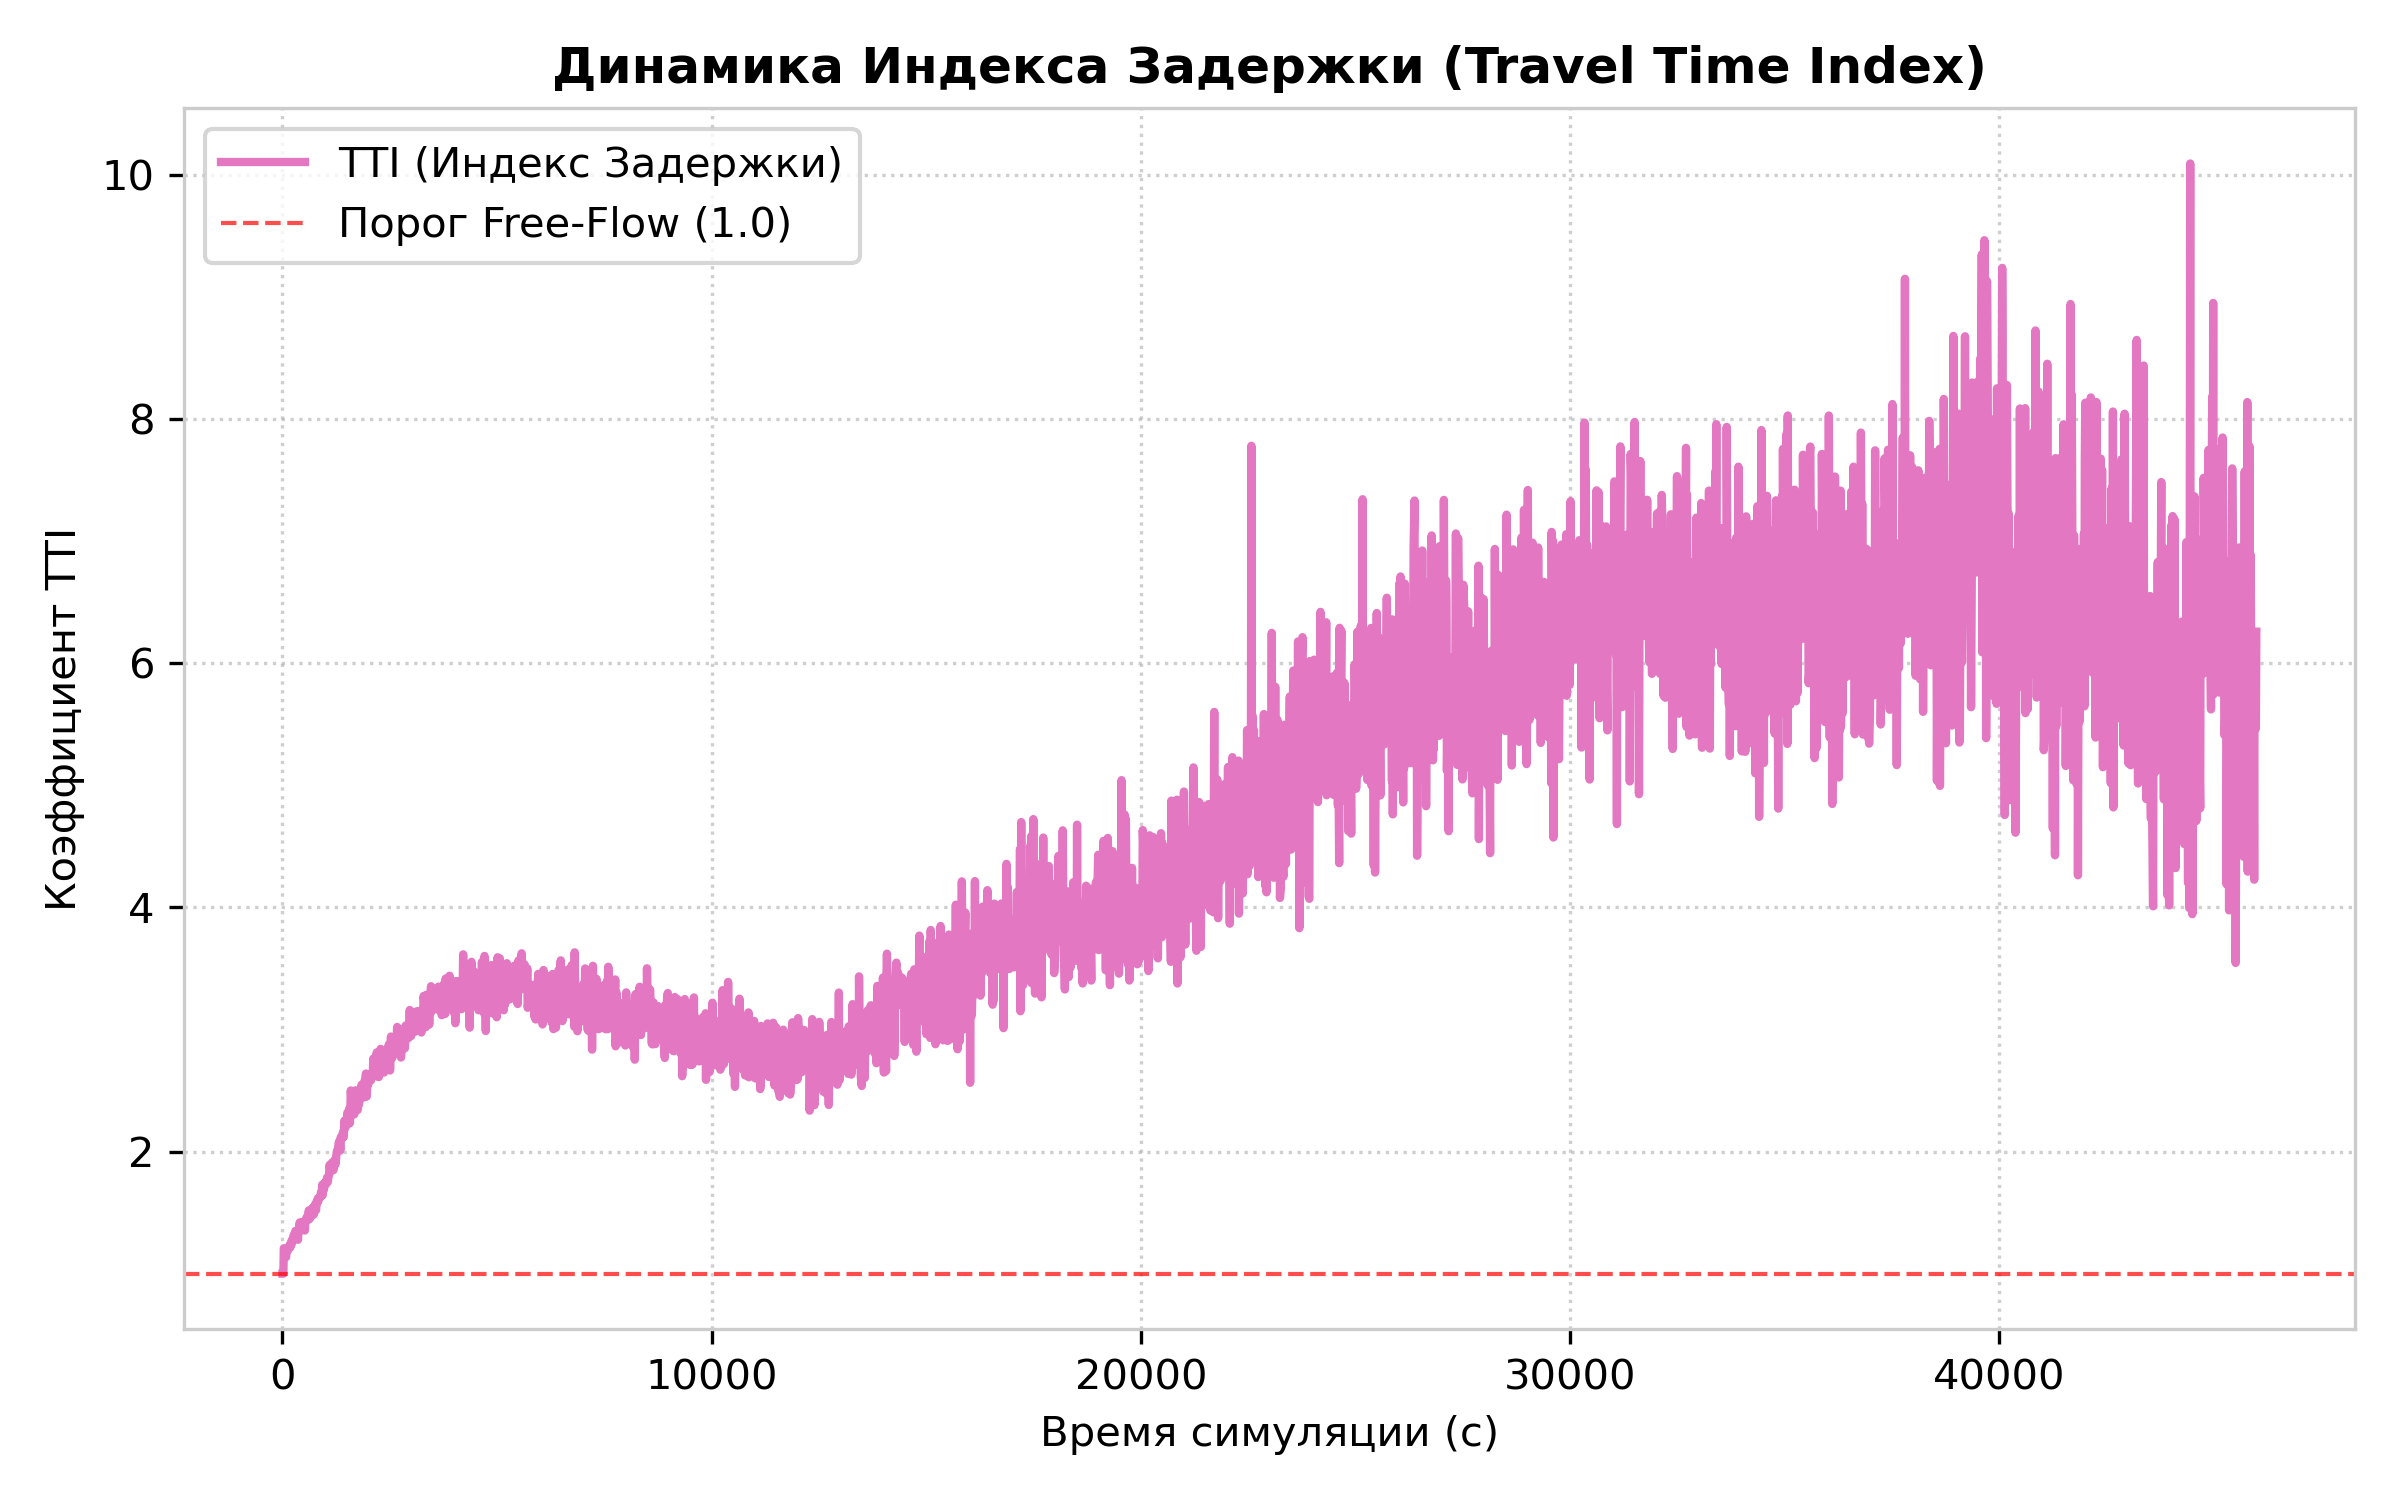
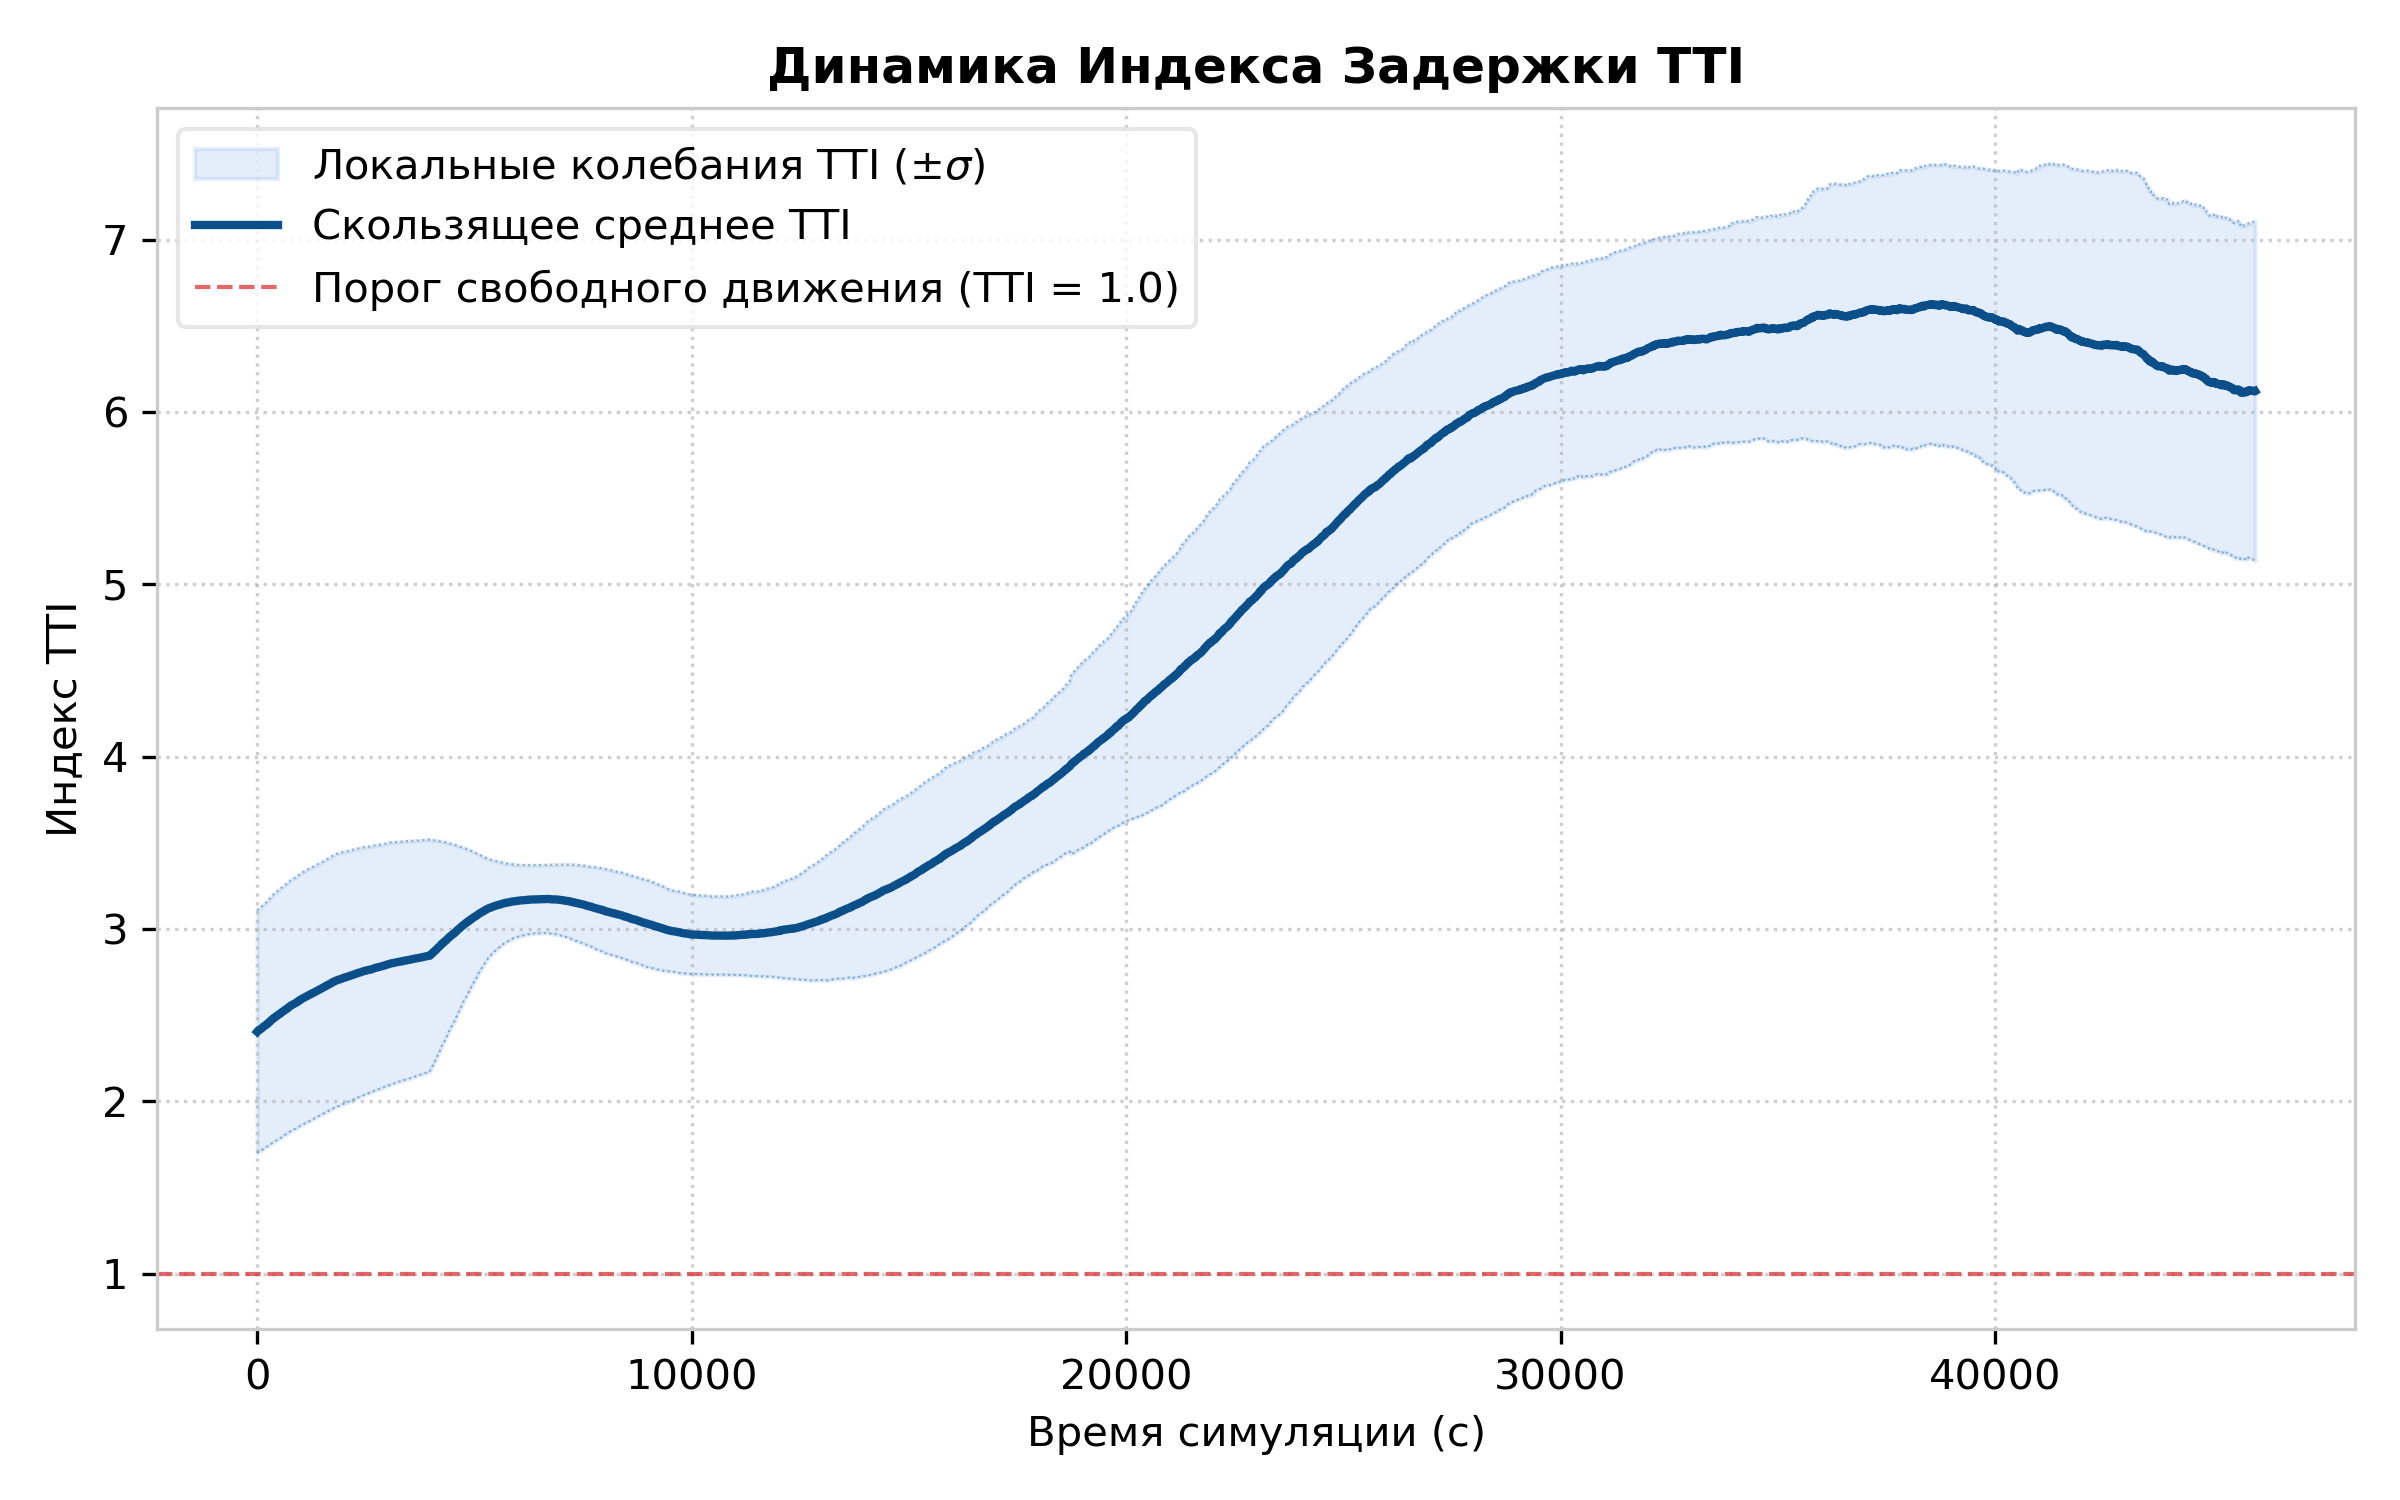
часть 3.2 - освежил графики, переделал скрипт их рисования

diff --git a/scripts/generate_figures.py b/scripts/generate_figures.py
@@ -1,0 +1,121 @@
+#!/usr/bin/env python3
+import os
+import csv
+import sys
+import matplotlib
+matplotlib.use('Agg')
+import matplotlib.pyplot as plt
+import numpy as np
+import pandas as pd
+
+def setup_plot():
+    plt.rcParams['font.family'] = 'sans-serif'
+    plt.rcParams['font.sans-serif'] = ['DejaVu Sans', 'Arial', 'Liberation Sans']
+    plt.rcParams['axes.edgecolor'] = '#cccccc'
+    plt.rcParams['axes.linewidth'] = 0.8
+    plt.rcParams['figure.figsize'] = (8, 5)
+    plt.rcParams['figure.dpi'] = 300
+
+def generate_plots(csv_file, output_dir):
+    os.makedirs(output_dir, exist_ok=True)
+    
+    print(f"Чтение CSV: {csv_file}")
+    df = pd.read_csv(csv_file)
+    time = df['SimTime']
+
+    setup_plot()
+
+    # 1. Green Zones (Свободные участки)
+    plt.figure()
+    plt.plot(time, df['GreenZones'], color='#2ca02c', linewidth=2.0, 
+             label=r'Свободные участки: $N < C_{vis} + 0.3(C_{jam} - C_{vis})$')
+    plt.title("Динамика свободных участков дорожной сети", fontsize=12, fontweight='bold')
+    plt.xlabel("Время симуляции (с)")
+    plt.ylabel("Количество ребер")
+    plt.grid(True, linestyle=':', alpha=0.6)
+    plt.legend(frameon=True, facecolor='white', edgecolor='#e0e0e0', loc='upper right')
+    plt.tight_layout()
+    plt.savefig(os.path.join(output_dir, "fig_green_zones.png"))
+    plt.close()
+
+    # 2. Yellow, Red, and Black Zones Combined (Загруженные, перегруженные и заторные участки)
+    plt.figure()
+    # Отрисовываем черные зоны на самом нижнем слое (zorder=1), затем красные, затем желтые
+    plt.plot(time, df['BlackZones'], color='#111111', linewidth=2.0, 
+             label=r'Критические заторы: $N \geq 2 C_{jam}$', zorder=1)
+    plt.plot(time, df['RedZones'], color='#d62728', linewidth=1.5, 
+             label=r'Перегрузка: $C_{jam} \leq N < 2 C_{jam}$', zorder=2)
+    plt.plot(time, df['YellowZones'], color='#bcbd22', linewidth=1.5, 
+             label=r'Плотный трафик: $C_{vis} + 0.3(C_{jam} - C_{vis}) \leq N < C_{jam}$', zorder=3)
+    
+    plt.title("Динамика загруженных и заторных сегментов сети", fontsize=12, fontweight='bold')
+    plt.xlabel("Время симуляции (с)")
+    plt.ylabel("Количество ребер")
+    plt.grid(True, linestyle=':', alpha=0.6)
+    plt.legend(frameon=True, facecolor='white', edgecolor='#e0e0e0', loc='upper right')
+    plt.tight_layout()
+    plt.savefig(os.path.join(output_dir, "fig_red_yellow_zones.png"))
+    plt.close()
+
+    # 3. Queues (Spawn and Reroute)
+    plt.figure()
+    spawn = np.array(df['WaitingSpawn'])
+    spawn_masked = np.where(spawn > 100000, np.nan, spawn)
+    plt.plot(time, spawn_masked, color='#9467bd', linewidth=2.0, linestyle='--', label='Очередь на спавн')
+    plt.plot(time, df['WaitingReroute'], color='#ff7f0e', linewidth=2.0, label='Очередь MPR (Перестроения)')
+    plt.title("Динамика очередей ожидания маршрута", fontsize=12, fontweight='bold')
+    plt.xlabel("Время симуляции (с)")
+    plt.ylabel("Количество агентов в очереди")
+    plt.grid(True, linestyle=':', alpha=0.6)
+    plt.legend(frameon=True, facecolor='white', edgecolor='#e0e0e0')
+    plt.tight_layout()
+    plt.savefig(os.path.join(output_dir, "fig_queues.png"))
+    plt.close()
+
+    # 4. Completed Trips (Завершенные поездки)
+    plt.figure()
+    plt.plot(time, df['CompletedTrips'], color='#8c564b', linewidth=2.0, label='Накопленные завершенные поездки')
+    plt.title("Интегральная пропускная способность сети", fontsize=12, fontweight='bold')
+    plt.xlabel("Время симуляции (с)")
+    plt.ylabel("Завершенные поездки (ед.)")
+    plt.grid(True, linestyle=':', alpha=0.6)
+    plt.legend(frameon=True, facecolor='white', edgecolor='#e0e0e0', loc='upper left')
+    plt.tight_layout()
+    plt.savefig(os.path.join(output_dir, "fig_completed_trips.png"))
+    plt.close()
+
+    # 5. TTI с дисперсией (скользящее среднее + стандартное отклонение)
+    plt.figure()
+    window = 600 # 10 минут для сглаживания высокочастотных шумов
+    rolling_mean = df['TTI'].rolling(window=window, center=True, min_periods=1).mean()
+    rolling_std = df['TTI'].rolling(window=window, center=True, min_periods=1).std()
+    
+    lower_bound = (rolling_mean - rolling_std).clip(lower=1.0)
+    upper_bound = rolling_mean + rolling_std
+    
+    line_color = '#0b4f8a'   # Темно-синий
+    fill_color = '#4A90E2'   # Полупрозрачный синий
+    
+    plt.fill_between(time, lower_bound, upper_bound, color=fill_color, alpha=0.15, 
+                     label=r'Локальные колебания TTI ($\pm\sigma$)')
+    plt.plot(time, lower_bound, color=line_color, linestyle=':', linewidth=0.5, alpha=0.4)
+    plt.plot(time, upper_bound, color=line_color, linestyle=':', linewidth=0.5, alpha=0.4)
+    plt.plot(time, rolling_mean, color=line_color, linewidth=2.0, label='Скользящее среднее TTI')
+    plt.axhline(1.0, color='#d62728', linestyle='--', linewidth=1.0, alpha=0.7, 
+                label='Порог свободного движения (TTI = 1.0)')
+    
+    plt.title("Динамика Индекса Задержки TTI", fontsize=12, fontweight='bold')
+    plt.xlabel("Время симуляции (с)")
+    plt.ylabel("Индекс TTI")
+    plt.grid(True, linestyle=':', alpha=0.6)
+    plt.legend(frameon=True, facecolor='white', edgecolor='#e0e0e0', loc='upper left')
+    plt.tight_layout()
+    plt.savefig(os.path.join(output_dir, "fig_tti.png"))
+    plt.close()
+
+    print(f"Успешно сгенерировано 5 графиков в папке: {output_dir}")
+
+if __name__ == "__main__":
+    csv_path = "/home/vaivanov/dev/bmstu/diplom-iu12-proj/magistracy-diplom-iu12/scripts/stats/run_02bca76a_bpr_on_prof_on_24b_300s_0a_1asf.csv"
+    output_dir = "/home/vaivanov/dev/bmstu/diplom-iu12-proj/magistracy-diplom-iu12/docs/latex/assets/images"
+    generate_plots(csv_path, output_dir)
